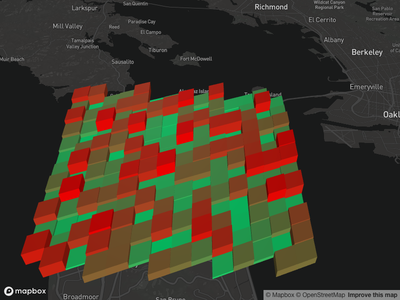
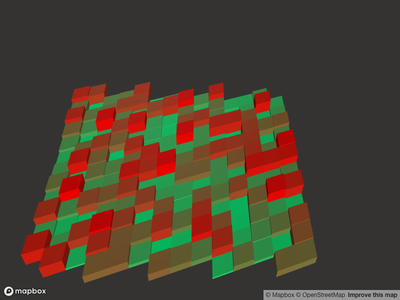
Update

diff --git a/bindings/pydeck/examples/geopandas_integration.py b/bindings/pydeck/examples/geopandas_integration.py
@@ -19,4 +19,7 @@ layers = [
     ),
 ]
 
-pdk.Deck(layers, map_provider=None).to_html("geopandas_integration.html")
+pdk.Deck(layers, map_provider=None).to_html(
+    "geopandas_integration.html",
+    css_background_color='cornflowerblue'
+)
